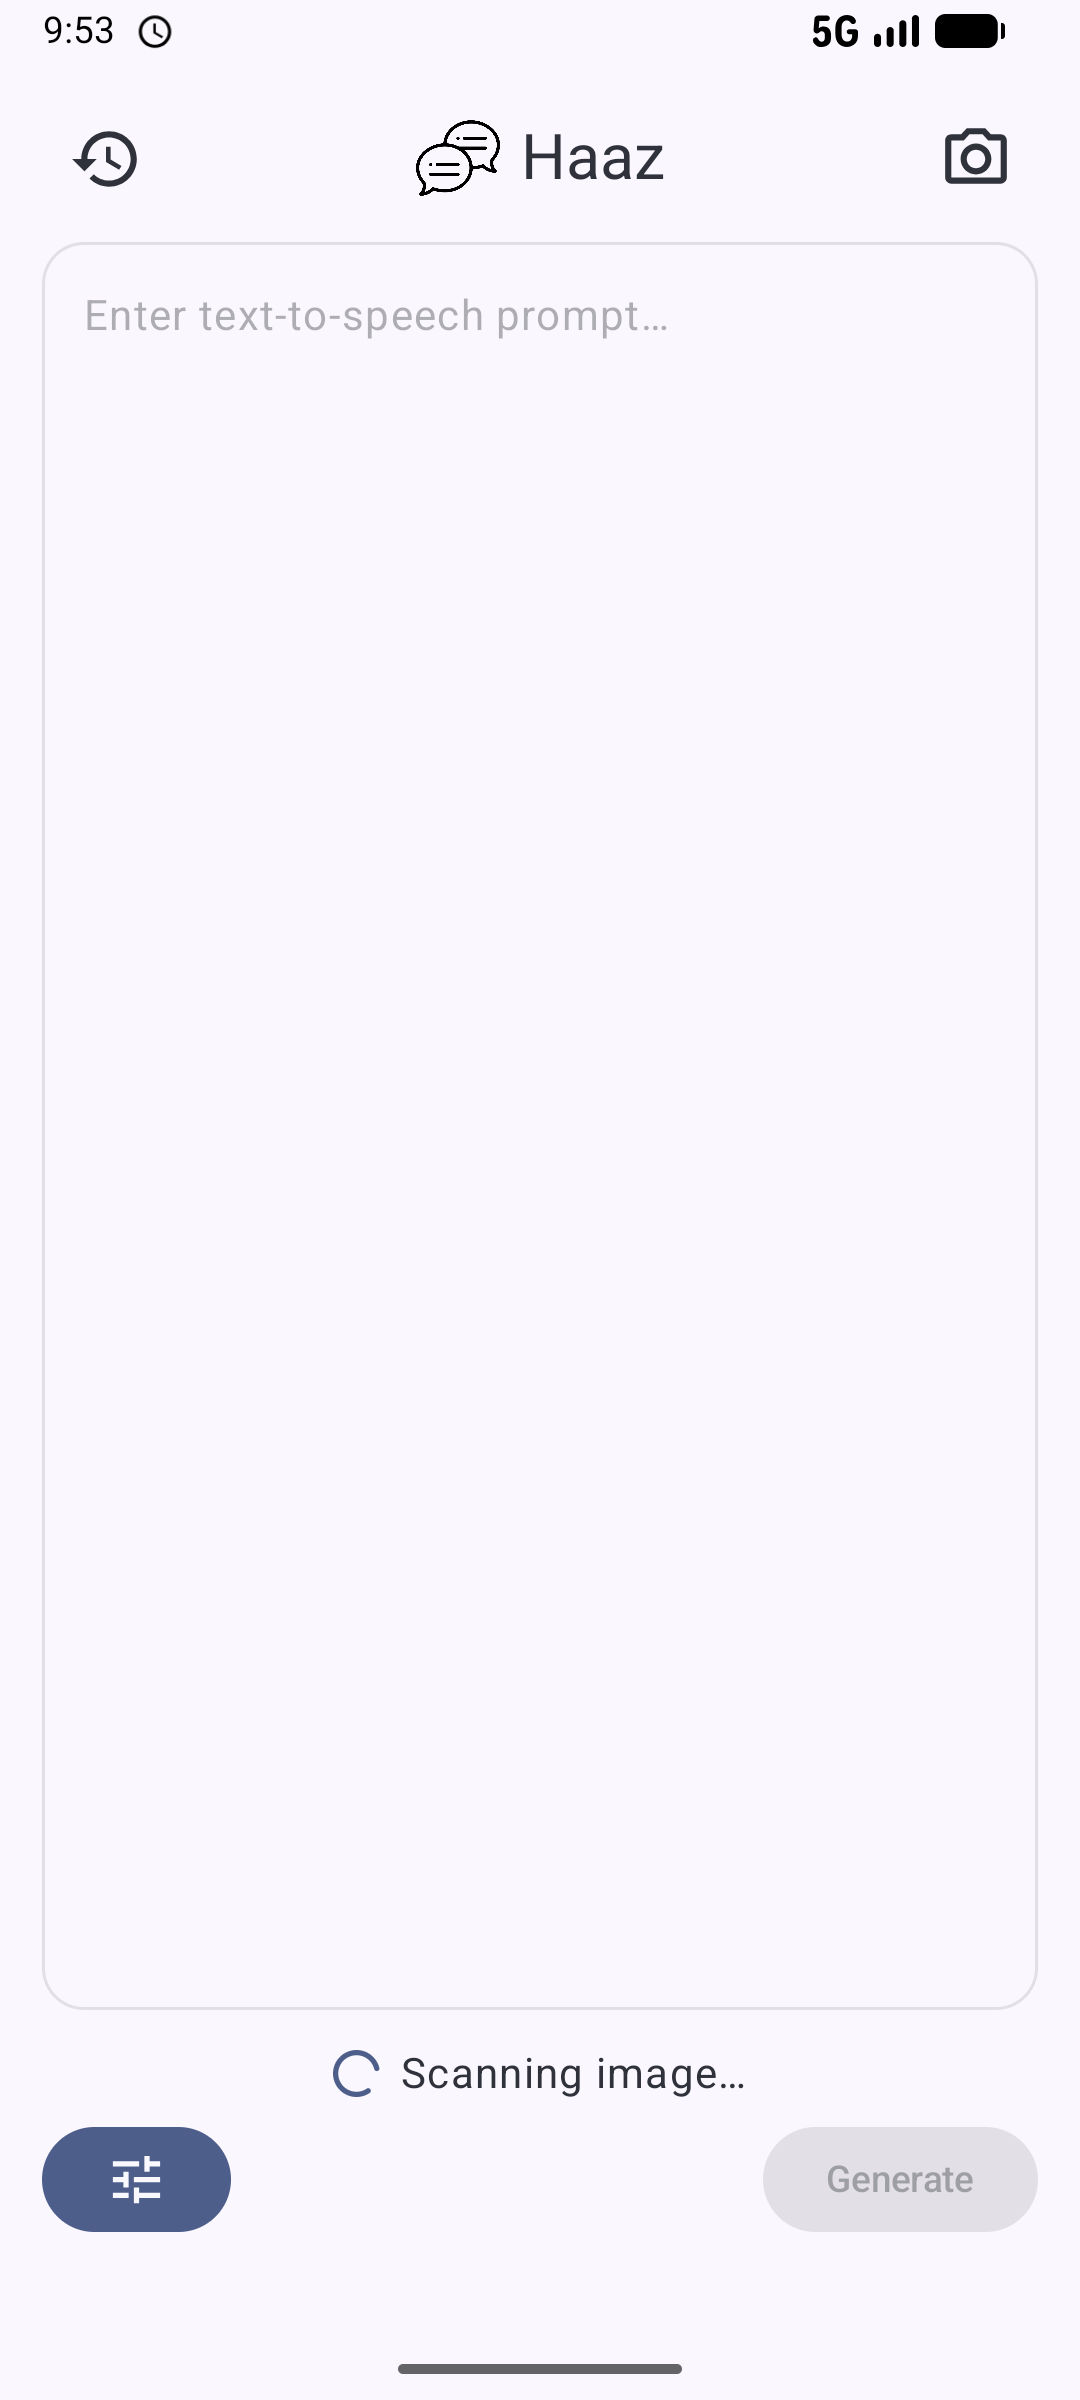
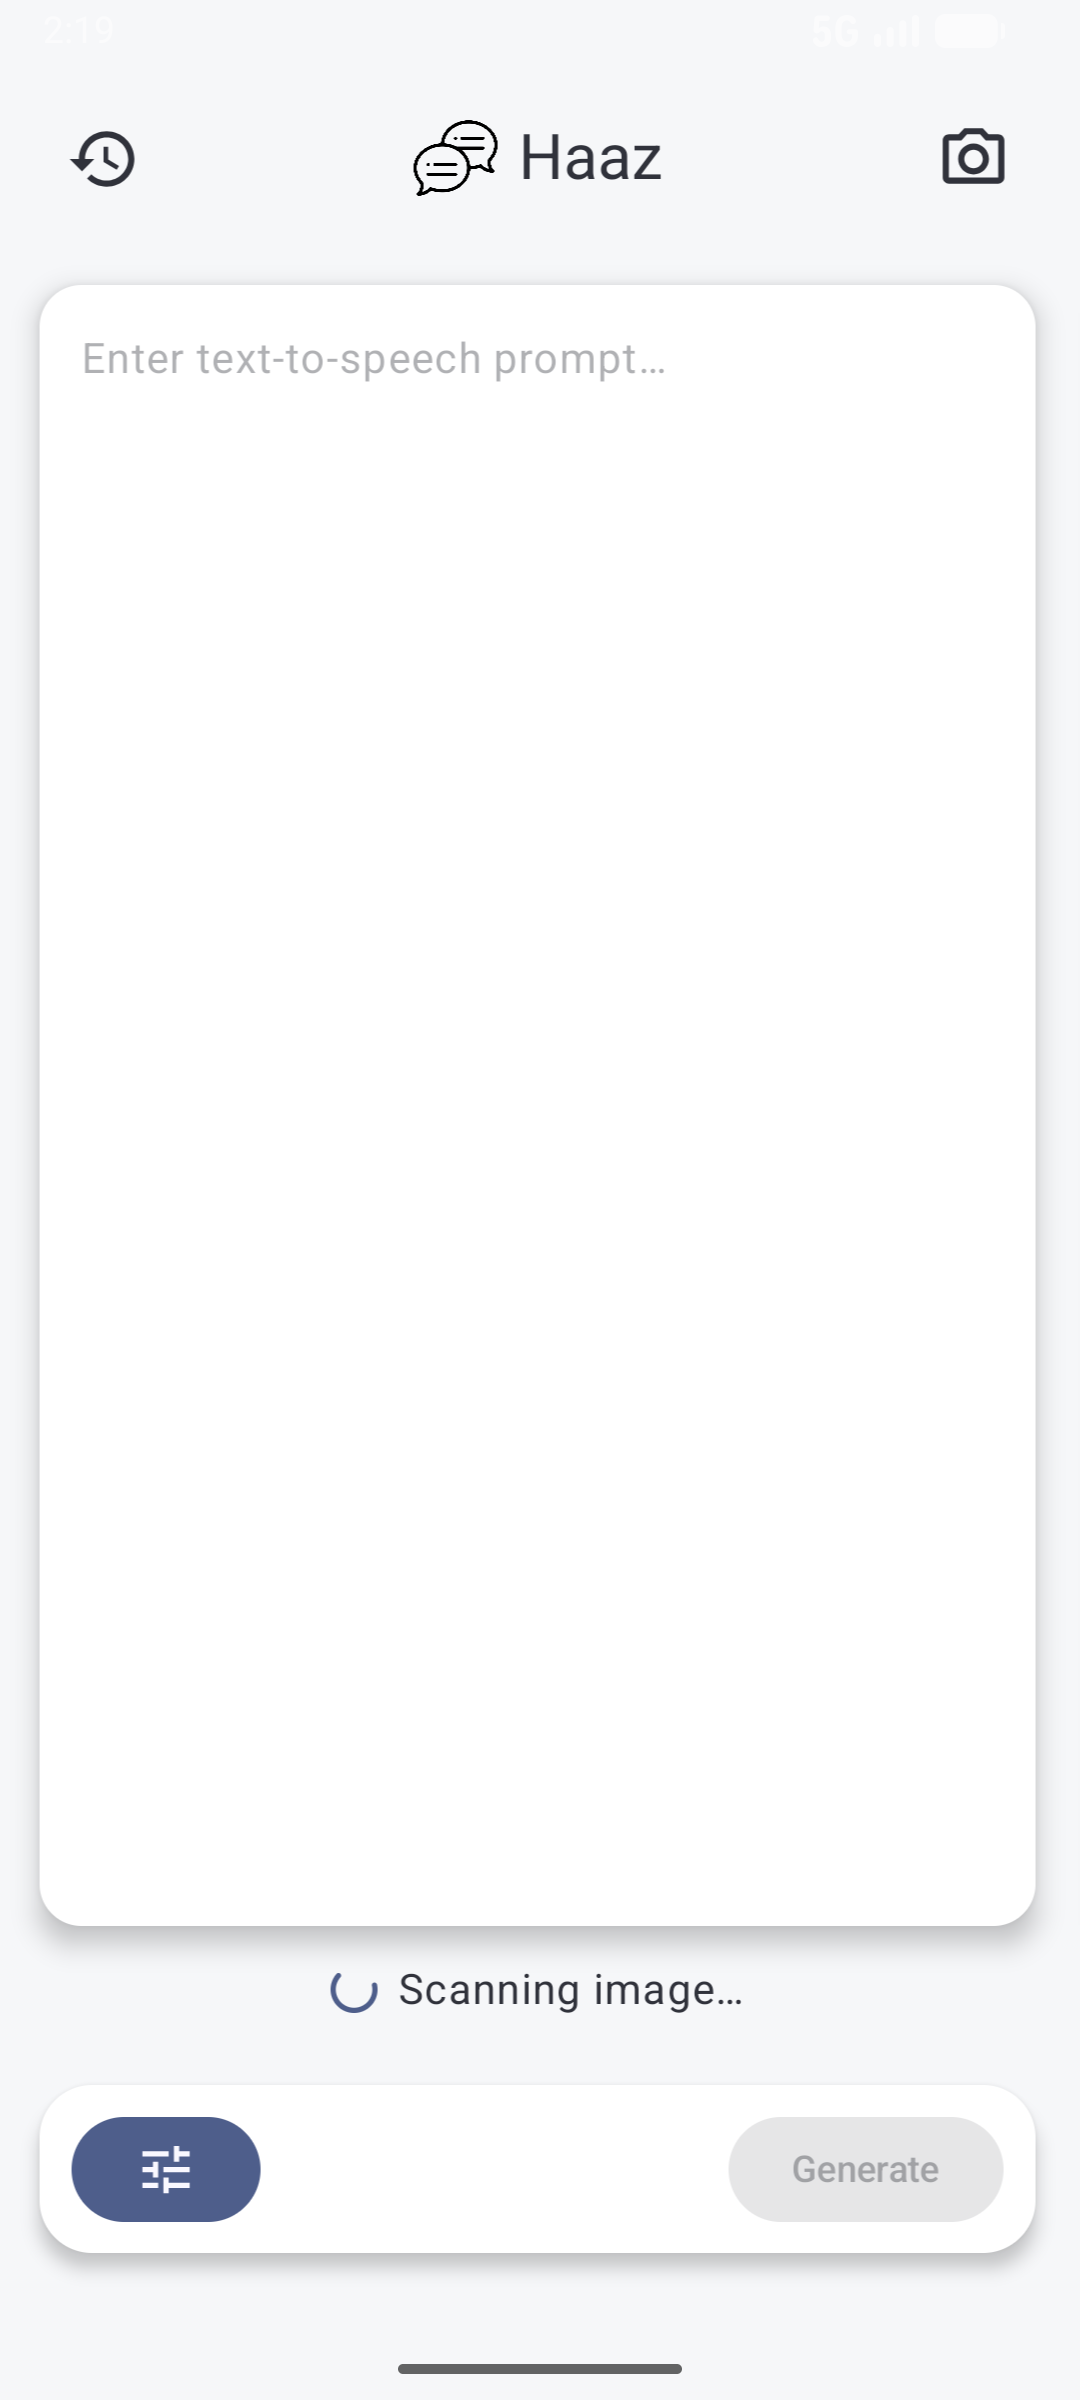
feat: Home Page UI Redesign

diff --git a/app/src/main/java/com/haaz/ui/home/HomePage.kt b/app/src/main/java/com/haaz/ui/home/HomePage.kt
@@ -28,6 +28,7 @@ import androidx.compose.foundation.layout.navigationBarsPadding
 import androidx.compose.foundation.layout.padding
 import androidx.compose.foundation.layout.size
 import androidx.compose.foundation.layout.width
+import androidx.compose.foundation.shape.CircleShape
 import androidx.compose.foundation.shape.RoundedCornerShape
 import androidx.compose.material.icons.Icons
 import androidx.compose.material.icons.filled.Close
@@ -63,6 +64,7 @@ import androidx.compose.runtime.rememberCoroutineScope
 import androidx.compose.runtime.setValue
 import androidx.compose.ui.Alignment
 import androidx.compose.ui.Modifier
+import androidx.compose.ui.draw.shadow
 import androidx.compose.ui.graphics.Color
 import androidx.compose.ui.graphics.compositeOver
 import androidx.compose.ui.platform.LocalContext
@@ -184,101 +186,128 @@ private fun HomePageUI(
     onOpenCamera: () -> Unit
 ) {
     val sheetState = rememberModalBottomSheetState(skipPartiallyExpanded = true)
+    val backgroundColor = Color(0xFFF6F7F9)
+    val elevatedSurfaceColor = Color.White
 
     Scaffold(
-        snackbarHost = { SnackbarHost(snackbarHostState) }
+        snackbarHost = { SnackbarHost(snackbarHostState) },
+        containerColor = backgroundColor
     ) { padding ->
         Column(
             modifier = Modifier
                 .fillMaxSize()
                 .padding(padding)
                 .navigationBarsPadding()
-                .imePadding()
-                .padding(horizontal = 16.dp, vertical = 12.dp),
+                .imePadding(),
             verticalArrangement = Arrangement.Top
         ) {
             Column(
                 modifier = Modifier
-                    .fillMaxWidth()
-                    .weight(1f, fill = true),
+                    .fillMaxWidth(),
                 verticalArrangement = Arrangement.Top,
                 horizontalAlignment = Alignment.CenterHorizontally
             ) {
                 Box(
                     modifier = Modifier
                         .fillMaxWidth()
-                        .padding(bottom = 8.dp)
                 ) {
-                    IconButton(
-                        onClick = onOpenHistory,
-                        modifier = Modifier.align(Alignment.CenterStart)
-                    ) {
-                        Icon(
-                            imageVector = Icons.Outlined.History,
-                            contentDescription = "History",
-                            modifier = Modifier.size(28.dp)
-                        )
-                    }
-                    IconButton(
-                        onClick = onOpenCamera,
-                        modifier = Modifier.align(Alignment.CenterEnd)
-                    ) {
-                        Icon(
-                            imageVector = Icons.Outlined.CameraAlt,
-                            contentDescription = "Scan text",
-                            modifier = Modifier.size(28.dp)
-                        )
-                    }
-                    Row(
-                        modifier = Modifier.align(Alignment.Center),
-                        verticalAlignment = Alignment.CenterVertically,
-                        horizontalArrangement = Arrangement.Center
-                    ) {
-                        Image(
-                            painter = painterResource(id = R.drawable.speech_bubble),
-                            contentDescription = null,
-                            modifier = Modifier.size(32.dp)
-                        )
-                        Spacer(modifier = Modifier.width(8.dp))
-                        Text(text = "Haaz", style = MaterialTheme.typography.headlineSmall)
-                    }
-                }
-                OutlinedTextField(
-                    modifier = Modifier
-                        .fillMaxWidth()
-                        .weight(1f, fill = true),
-                    value = uiState.promptText,
-                    onValueChange = viewModel::onPromptChange,
-                    placeholder = { Text("Enter text-to-speech prompt…") },
-                    enabled = !uiState.isGenerating && !uiState.isScanning,
-                    minLines = 6,
-                    shape = RoundedCornerShape(16.dp),
-                    colors = OutlinedTextFieldDefaults.colors(
-                        focusedContainerColor = MaterialTheme.colorScheme.surface,
-                        unfocusedContainerColor = MaterialTheme.colorScheme.surface,
-                        disabledContainerColor = MaterialTheme.colorScheme.surface
-                    )
-                )
-                Spacer(modifier = Modifier.height(8.dp))
-                AnimatedVisibility(visible = uiState.isScanning) {
-                    Row(
+                    Box(
                         modifier = Modifier
                             .fillMaxWidth()
-                            .padding(vertical = 4.dp),
-                        horizontalArrangement = Arrangement.Center,
-                        verticalAlignment = Alignment.CenterVertically
+                            .padding(horizontal = 16.dp, vertical = 12.dp)
                     ) {
-                        CircularProgressIndicator(
-                            modifier = Modifier.size(18.dp),
-                            strokeWidth = 2.dp
+                        IconButton(
+                            onClick = onOpenHistory,
+                            modifier = Modifier.align(Alignment.CenterStart)
+                        ) {
+                            Icon(
+                                imageVector = Icons.Outlined.History,
+                                contentDescription = "History",
+                                modifier = Modifier.size(28.dp)
+                            )
+                        }
+                        IconButton(
+                            onClick = onOpenCamera,
+                            modifier = Modifier.align(Alignment.CenterEnd)
+                        ) {
+                            Icon(
+                                imageVector = Icons.Outlined.CameraAlt,
+                                contentDescription = "Scan text",
+                                modifier = Modifier.size(28.dp)
+                            )
+                        }
+                        Row(
+                            modifier = Modifier.align(Alignment.Center),
+                            verticalAlignment = Alignment.CenterVertically,
+                            horizontalArrangement = Arrangement.Center
+                        ) {
+                            Image(
+                                painter = painterResource(id = R.drawable.speech_bubble),
+                                contentDescription = null,
+                                modifier = Modifier.size(32.dp)
+                            )
+                            Spacer(modifier = Modifier.width(8.dp))
+                            Text(text = "Haaz", style = MaterialTheme.typography.headlineSmall)
+                        }
+                    }
+                }
+            }
+            Box(
+                modifier = Modifier
+                    .fillMaxWidth()
+                    .weight(1f, fill = true)
+            ) {
+                Column(
+                    modifier = Modifier
+                        .fillMaxWidth()
+                        .padding(horizontal = 16.dp, vertical = 12.dp),
+                    verticalArrangement = Arrangement.Top,
+                    horizontalAlignment = Alignment.CenterHorizontally
+                ) {
+                    OutlinedTextField(
+                        modifier = Modifier
+                            .fillMaxWidth()
+                            .weight(1f, fill = true)
+                            .shadow(elevation = 6.dp, shape = RoundedCornerShape(16.dp), clip = false),
+                        value = uiState.promptText,
+                        onValueChange = viewModel::onPromptChange,
+                        placeholder = { Text("Enter text-to-speech prompt…") },
+                        enabled = !uiState.isGenerating && !uiState.isScanning,
+                        minLines = 6,
+                        shape = RoundedCornerShape(16.dp),
+                        colors = OutlinedTextFieldDefaults.colors(
+                            focusedContainerColor = elevatedSurfaceColor,
+                            unfocusedContainerColor = elevatedSurfaceColor,
+                            disabledContainerColor = elevatedSurfaceColor,
+                            focusedBorderColor = Color.Transparent,
+                            unfocusedBorderColor = Color.Transparent,
+                            disabledBorderColor = Color.Transparent
                         )
-                        Spacer(modifier = Modifier.width(8.dp))
-                        Text("Scanning image…")
+                    )
+                    Spacer(modifier = Modifier.height(8.dp))
+                    AnimatedVisibility(visible = uiState.isScanning) {
+                        Row(
+                            modifier = Modifier
+                                .fillMaxWidth()
+                                .padding(vertical = 4.dp),
+                            horizontalArrangement = Arrangement.Center,
+                            verticalAlignment = Alignment.CenterVertically
+                        ) {
+                            CircularProgressIndicator(
+                                modifier = Modifier.size(18.dp),
+                                strokeWidth = 2.dp
+                            )
+                            Spacer(modifier = Modifier.width(8.dp))
+                            Text("Scanning image…")
+                        }
                     }
                 }
             }
 
             AnimatedVisibility(
+                modifier = Modifier
+                    .fillMaxWidth()
+                    .padding(horizontal = 16.dp),
                 visible = uiState.playback != null,
                 enter = slideInVertically(
                     animationSpec = tween(durationMillis = 200),
@@ -299,30 +328,41 @@ private fun HomePageUI(
                 }
             }
 
-            Row(
-                modifier = Modifier.fillMaxWidth(),
-                horizontalArrangement = Arrangement.Start,
-                verticalAlignment = Alignment.CenterVertically
+            Surface(
+                modifier = Modifier
+                    .fillMaxWidth()
+                    .padding(horizontal = 16.dp, vertical = 8.dp)
+                    .shadow(elevation = 4.dp, shape = RoundedCornerShape(20.dp), clip = false),
+                color = elevatedSurfaceColor,
+                shape = RoundedCornerShape(20.dp)
             ) {
-                Button(
-                    onClick = { viewModel.onToggleSettings(true) },
-                    colors = ButtonDefaults.buttonColors(),
+                Row(
+                    modifier = Modifier
+                        .fillMaxWidth()
+                        .padding(horizontal = 12.dp, vertical = 8.dp),
+                    horizontalArrangement = Arrangement.Start,
+                    verticalAlignment = Alignment.CenterVertically
                 ) {
-                    Icon(imageVector = Icons.Default.Tune, contentDescription = "Settings")
-                }
-                Spacer(modifier = Modifier.weight(1f))
-                Button(
-                    onClick = { viewModel.generateSpeech() },
-                    enabled = uiState.canGenerate,
-                    colors = ButtonDefaults.buttonColors()
-                ) {
-                    if (uiState.isGenerating) {
-                        CircularProgressIndicator(
-                            modifier = Modifier.size(20.dp),
-                            strokeWidth = 2.dp
-                        )
-                    } else {
-                        Text("Generate")
+                    Button(
+                        onClick = { viewModel.onToggleSettings(true) },
+                        colors = ButtonDefaults.buttonColors(),
+                    ) {
+                        Icon(imageVector = Icons.Default.Tune, contentDescription = "Settings")
+                    }
+                    Spacer(modifier = Modifier.weight(1f))
+                    Button(
+                        onClick = { viewModel.generateSpeech() },
+                        enabled = uiState.canGenerate,
+                        colors = ButtonDefaults.buttonColors()
+                    ) {
+                        if (uiState.isGenerating) {
+                            CircularProgressIndicator(
+                                modifier = Modifier.size(20.dp),
+                                strokeWidth = 2.dp
+                            )
+                        } else {
+                            Text("Generate")
+                        }
                     }
                 }
             }
@@ -331,7 +371,8 @@ private fun HomePageUI(
                 ModalBottomSheet(
                     onDismissRequest = { viewModel.onToggleSettings(false) },
                     sheetState = sheetState,
-                    shape = RoundedCornerShape(topStart = 24.dp, topEnd = 24.dp)
+                    shape = RoundedCornerShape(topStart = 24.dp, topEnd = 24.dp),
+                    containerColor = backgroundColor
                 ) {
                     SettingsSheetUI(
                         initial = uiState.settings,
@@ -366,11 +407,13 @@ private fun PlaybackBar(
         playback.isPlaying -> "Playing"
         else -> "Ready to play"
     }
-    val barColor = MaterialTheme.colorScheme.surfaceVariant
-    val buttonColor = MaterialTheme.colorScheme.onSurface.copy(alpha = 0.08f).compositeOver(barColor)
+    val barColor = MaterialTheme.colorScheme.primary
+    val buttonColor = MaterialTheme.colorScheme.onPrimary.copy(alpha = 0.12f).compositeOver(barColor)
 
     Surface(
-        modifier = modifier.fillMaxWidth(),
+        modifier = modifier
+            .fillMaxWidth()
+            .shadow(elevation = 6.dp, shape = RoundedCornerShape(16.dp), clip = false),
         shape = RoundedCornerShape(16.dp),
         color = barColor,
         tonalElevation = 4.dp
@@ -381,29 +424,38 @@ private fun PlaybackBar(
             horizontalArrangement = Arrangement.spacedBy(8.dp)
         ) {
             Column(modifier = Modifier.weight(1f)) {
-                Text(text = title, maxLines = 1, overflow = TextOverflow.Ellipsis, color = if (enabled) MaterialTheme.colorScheme.primary else Color.Unspecified)
-                Text(text = statusText, style = MaterialTheme.typography.bodySmall)
+                Text(
+                    text = title,
+                    maxLines = 1,
+                    overflow = TextOverflow.Ellipsis,
+                    color = if (enabled) MaterialTheme.colorScheme.onPrimary else MaterialTheme.colorScheme.onPrimary.copy(alpha = 0.6f)
+                )
+                Text(
+                    text = statusText,
+                    style = MaterialTheme.typography.bodySmall,
+                    color = MaterialTheme.colorScheme.onPrimary.copy(alpha = 0.7f)
+                )
             }
             IconButton(onClick = { if (enabled) onTogglePlayback() }, enabled = enabled) {
                 Box(
                     modifier = Modifier
                         .size(36.dp)
-                        .background(color = buttonColor, shape = RoundedCornerShape(percent = 50)),
+                        .background(color = buttonColor, shape = CircleShape),
                     contentAlignment = Alignment.Center
                 ) {
                     val icon = if (playback?.isPlaying == true) Icons.Default.Pause else Icons.Default.PlayArrow
                     val description = if (playback?.isPlaying == true) "Pause" else "Play"
-                    Icon(imageVector = icon, contentDescription = description)
+                    Icon(imageVector = icon, contentDescription = description, tint = MaterialTheme.colorScheme.onPrimary)
                 }
             }
             IconButton(onClick = { if (enabled) onClose() }, enabled = enabled) {
                 Box(
                     modifier = Modifier
                         .size(36.dp)
-                        .background(color = buttonColor, shape = RoundedCornerShape(percent = 50)),
+                        .background(color = buttonColor, shape = CircleShape),
                     contentAlignment = Alignment.Center
                 ) {
-                    Icon(imageVector = Icons.Default.Close, contentDescription = "Close")
+                    Icon(imageVector = Icons.Default.Close, contentDescription = "Close", tint = MaterialTheme.colorScheme.onPrimary)
                 }
             }
         }

diff --git a/app/src/main/java/com/haaz/ui/history/HistoryPage.kt b/app/src/main/java/com/haaz/ui/history/HistoryPage.kt
@@ -27,6 +27,7 @@ import androidx.compose.runtime.collectAsState
 import androidx.compose.runtime.getValue
 import androidx.compose.ui.Alignment
 import androidx.compose.ui.Modifier
+import androidx.compose.ui.graphics.Color
 import androidx.compose.ui.text.style.TextOverflow
 import androidx.compose.ui.unit.dp
 import androidx.hilt.navigation.compose.hiltViewModel
@@ -58,7 +59,9 @@ private fun HistoryPageUI(
     onClear: () -> Unit,
     isClearing: Boolean
 ) {
+    val backgroundColor = Color(0xFFF6F7F9)
     Scaffold(
+        containerColor = backgroundColor,
         topBar = {
             TopAppBar(
                 title = { Text(text = "History") },
